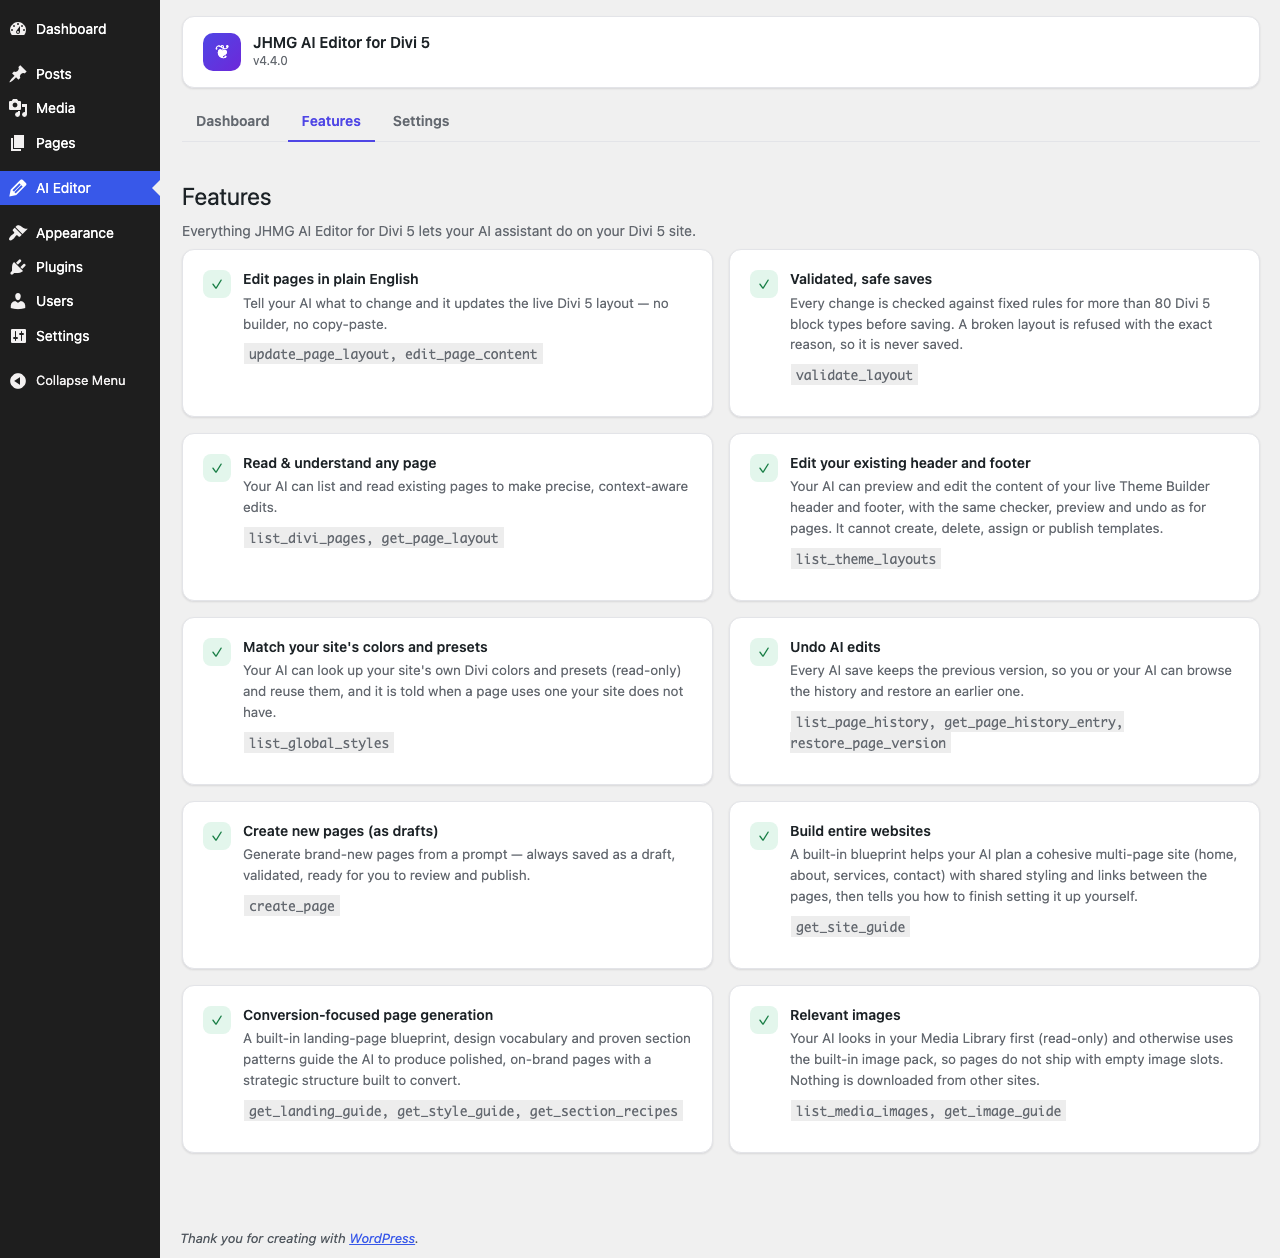
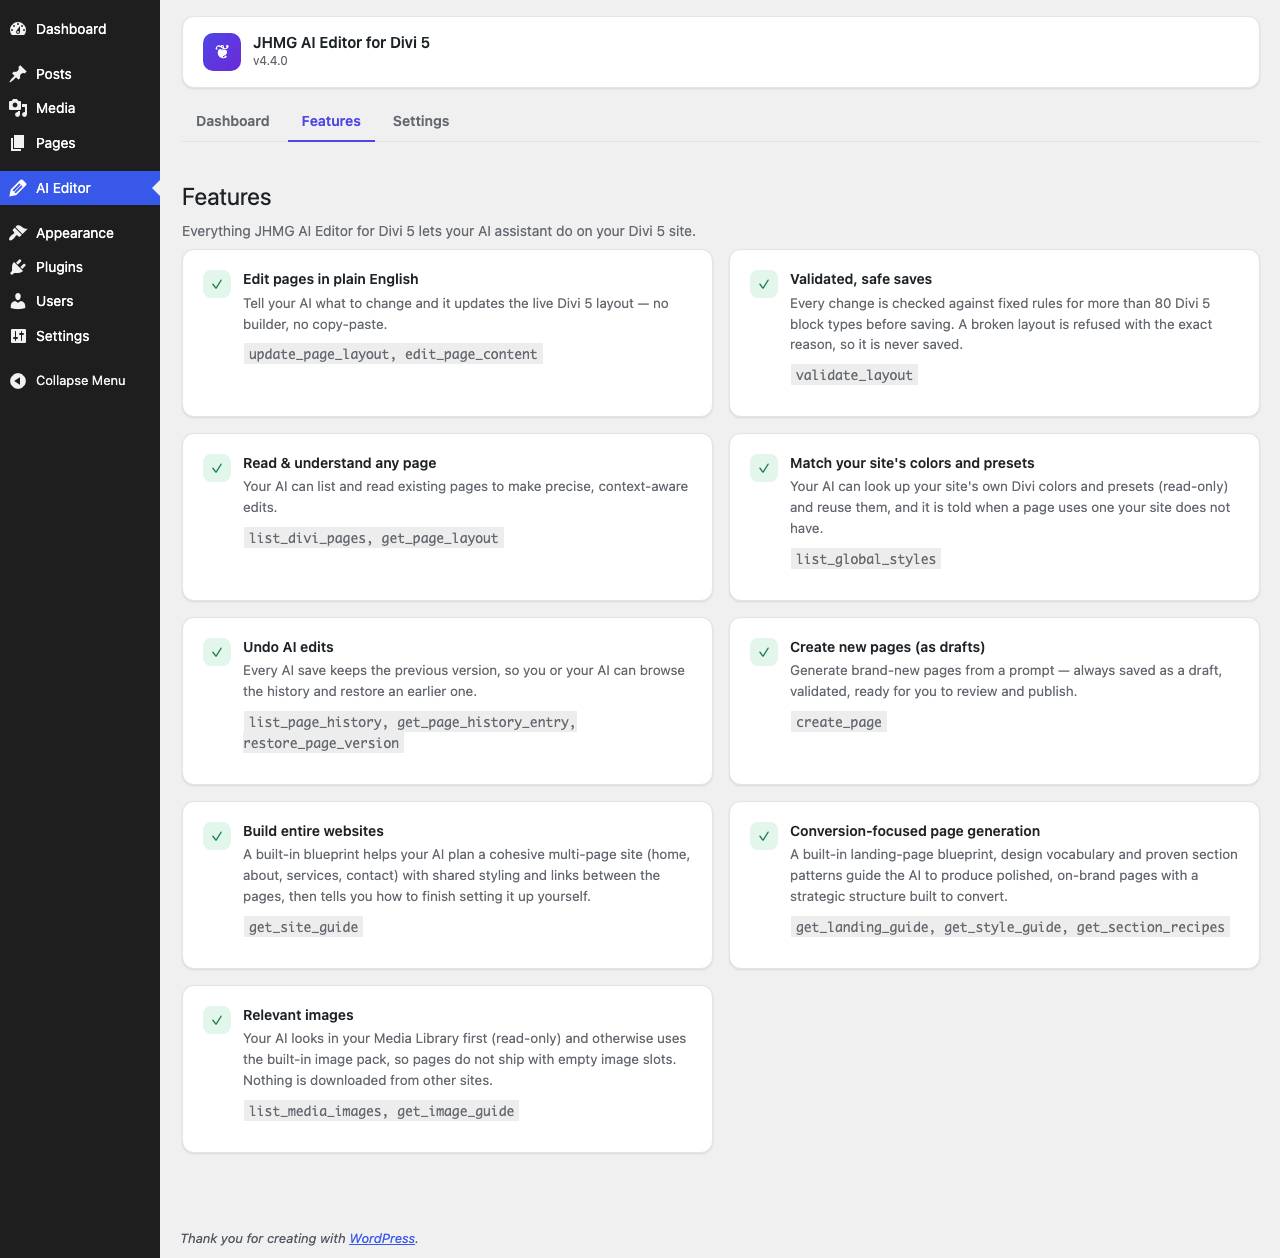
art+docs: Features screenshot after the free re-cut; CLAUDE.md current state

diff --git a/CLAUDE.md b/CLAUDE.md
@@ -214,14 +214,13 @@ Docker env and `make export-layouts`. Do not attempt to download it. If missing,
 
 ## Current state
 
-- **4.4.0 = global styles release PLUS the free re-cut** (local branch `feat/free-recut`, NOT yet merged to main; main at
-  c3234c2/39531aa still contains the unreleased 4.3.0 header/footer code; NOT uploaded): read-only
+- **4.4.0 = global styles release PLUS the free re-cut** (merged to LOCAL main, 026a571; NOT uploaded): read-only
   `list_global_styles` (16th tool) + non-blocking style-reference advisory + guide updates (spec
   `docs/superpowers/specs/2026-10-01-global-styles-design.md`). The free re-cut removed the unreleased 4.3.0
-  header/footer code, so there are 16 tools. Ships after the first WordPress.org approval. Verified on the re-cut:
-  548 tests, `make verify-global-styles` 25/25, Plugin Check clean (dev copy and zip); the final whole-branch review
-  of the re-cut is done. The Features screenshot in `wporg-assets/` still shows the removed header/footer card:
-  regenerate it (scripts/build-wporg-art.cjs, needs an admin cookie) before upload.
+  header/footer code (it moves to the Pro add-on), so there are 16 tools. Ships after the first WordPress.org
+  approval. Verified: 548 tests, `make verify-global-styles` 25/25, Plugin Check clean (dev copy and zip), final
+  whole-branch review of the re-cut done. The Features screenshot in `wporg-assets/` was regenerated 2026-10-02 after
+  the re-cut (9 cards, no header/footer card).
 - **4.2.0 = preview-before-save release** (branch `feat/dry-run-diff`): `dry_run` on the two write
   tools/routes with a capped structured diff; spec `docs/superpowers/specs/2026-10-01-dry-run-diff-design.md`.
   Not uploaded; ships in one upload together with 4.1.0 after WordPress.org answers the 4.0.0 review.
